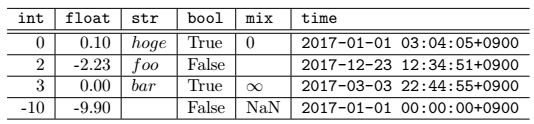
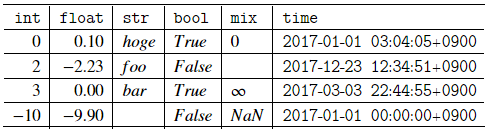
Update docs

diff --git a/docs/pages/examples/table_format/latex/latex_matrix.rst b/docs/pages/examples/table_format/latex/latex_matrix.rst
@@ -22,13 +22,13 @@ with LaTeX ``array`` environment to the |stream| from a matrix of data.
 :Output 1:
     .. code-block:: TeX
 
-        \[
+        \begin{equation}
             A = \left( \begin{array}{rrr}
                 0.01 & 0.0012 & 0.000 \\
                 1.00 & 99.9000 & 0.010 \\
                 1.20 & 999999.1230 & 0.001 \\
             \end{array} \right)
-        \]
+        \end{equation}
 
 :Rendering Result 1:
     .. figure:: ss/latex_matrix_num.png
@@ -44,22 +44,24 @@ with LaTeX ``array`` environment to the |stream| from a matrix of data.
         writer = pytablewriter.LatexMatrixWriter()
         writer.table_name = "B"
         writer.value_matrix = [
-            ["a_{11}", "a_{12}", "],
-            ["a_{21}", "a_{22}", r"\ldots", "a_{2n}"],
-            ["a_{31}", "a_{32}", r"\ldots", "a_{3n}"],
+            ["a_{11}", "a_{12}", "\\ldots", "a_{1n}"],
+            ["a_{21}", "a_{22}", "\\ldots", "a_{2n}"],
+            [r"\vdots", "\\vdots", "\\ddots", "\\vdots"],
+            ["a_{n1}", "a_{n2}", "\\ldots", "a_{nn}"],
         ]
         writer.write_table()
 
 :Output 2:
     .. code-block:: TeX
 
-        \[
+        \begin{equation}
             B = \left( \begin{array}{llll}
-                a_{11} & a_{12} & $\ldots$ & a_{1n} \\
-                a_{21} & a_{22} & $\ldots$ & a_{2n} \\
-                a_{31} & a_{32} & $\ldots$ & a_{3n} \\
+                a_{11} & a_{12} & \ldots & a_{1n} \\
+                a_{21} & a_{22} & \ldots & a_{2n} \\
+                \vdots & \vdots & \ddots & \vdots \\
+                a_{n1} & a_{n2} & \ldots & a_{nn} \\
             \end{array} \right)
-        \]
+        \end{equation}
 
 :Rendering Result 2:
     .. figure:: ss/latex_matrix_var.png

diff --git a/docs/pages/examples/table_format/latex/latex_table.rst b/docs/pages/examples/table_format/latex/latex_table.rst
@@ -3,7 +3,7 @@
 LaTeX table
 -------------------------------------------
 |LatexTableWriter| class can writes a table 
-with LaTeX ``tabular`` environment to the |stream| from a matrix of data.
+with LaTeX ``array`` environment to the |stream| from a matrix of data.
 
 :Sample Code:
     .. code-block:: python
@@ -26,14 +26,14 @@ with LaTeX ``tabular`` environment to the |stream| from a matrix of data.
 :Output:
     .. code-block:: TeX
 
-        \begin{tabular}{r | r | l | l | l | l} \hline
+        \begin{array}{r | r | l | l | l | l} \hline
             \verb|int| & \verb|float| & \verb|str| & \verb|bool| & \verb|mix| & \verb|time| \\ \hline
             \hline
-            0 & 0.10 & $hoge$ & True & 0 & \verb|2017-01-01 03:04:05+0900| \\ \hline
-            2 & -2.23 & $foo$ & False &  & \verb|2017-12-23 12:34:51+0900| \\ \hline
-            3 & 0.00 & $bar$ & True & $\infty$ & \verb|2017-03-03 22:44:55+0900| \\ \hline
+            0 & 0.10 & hoge & True & 0 & \verb|2017-01-01 03:04:05+0900| \\ \hline
+            2 & -2.23 & foo & False &  & \verb|2017-12-23 12:34:51+0900| \\ \hline
+            3 & 0.00 & bar & True & \infty & \verb|2017-03-03 22:44:55+0900| \\ \hline
             -10 & -9.90 &  & False & NaN & \verb|2017-01-01 00:00:00+0900| \\ \hline
-        \end{tabular}
+        \end{array}
 
 :Rendering Result:
     .. figure:: ss/latex_table.png
